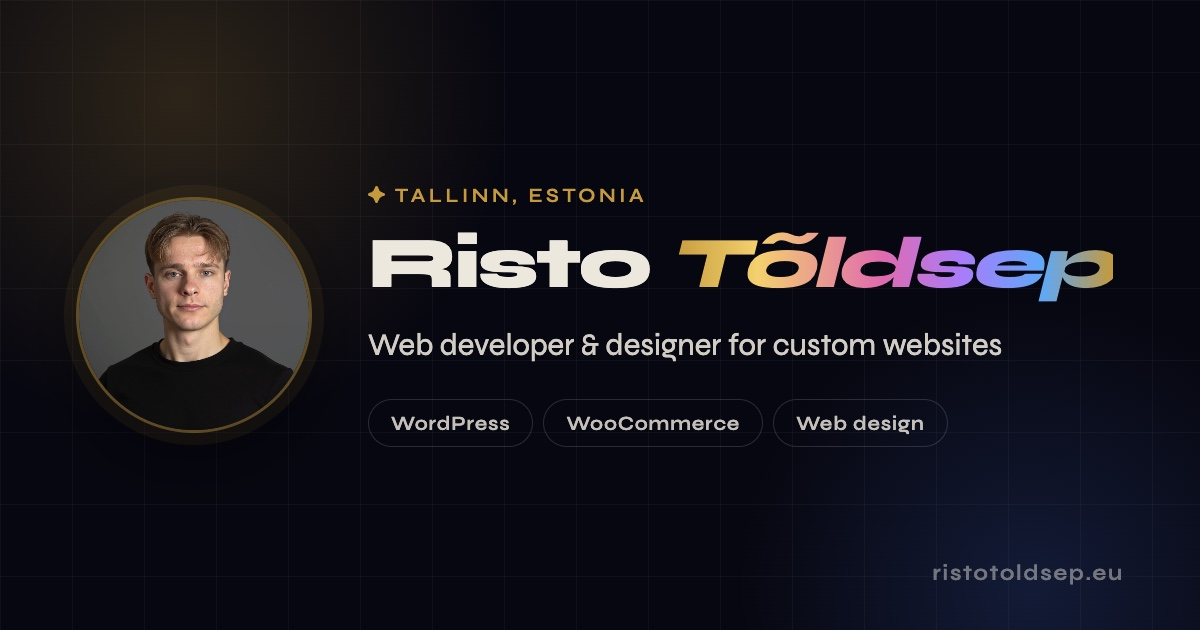
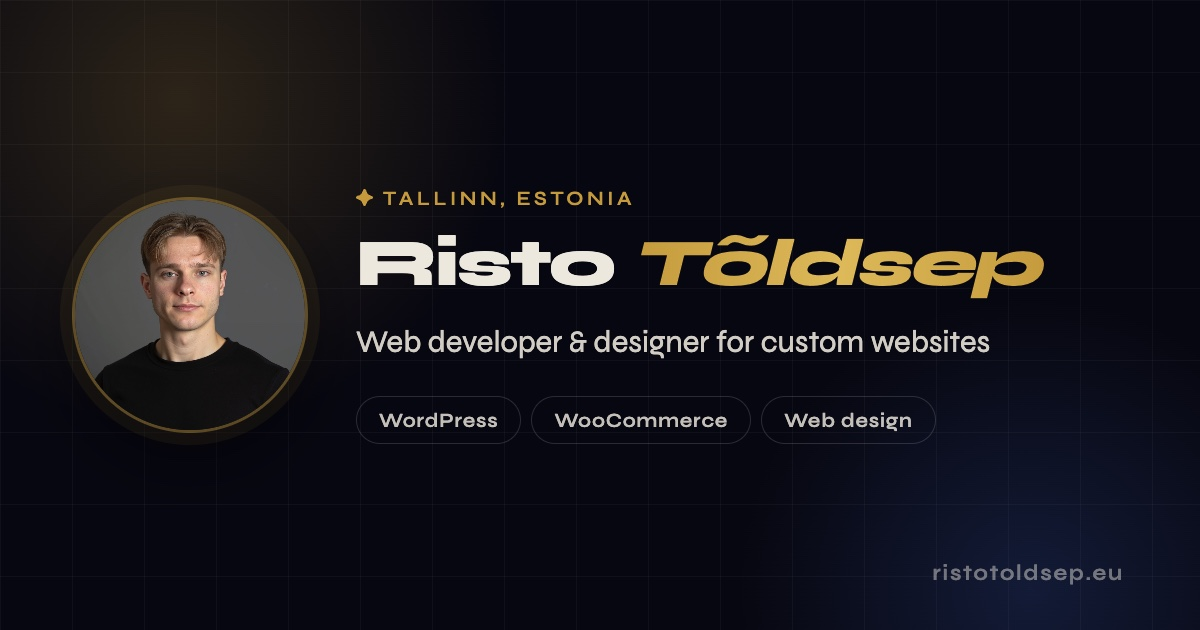
Use the gold accent on the OG card and stop clipping the final glyph
The multi-hue gradient is replaced with the site's own gold tokens
(#C49A3C to #DDB95A).

The clipped p was not the image edge, which had 161px clear. Syne's
italic overhangs its inline box, so the h1 was scrolling 2px and cutting
the glyph tip. Fixed with padding-right on the em rather than by nudging
the layout, so it holds if the name or size changes. Verified
scrollWidth equals clientWidth.

Headline drops to 66px for a little more breathing room.

diff --git a/tools/og-card.html b/tools/og-card.html
@@ -38,8 +38,8 @@
 
   .inner {
     position:relative; z-index:2;
-    display:flex; align-items:center; gap:56px;
-    padding:0 76px; width:100%;
+    display:flex; align-items:center; gap:48px;
+    padding:0 72px; width:100%;
   }
 
   .photo {
@@ -61,16 +61,20 @@
   .eyebrow svg { flex-shrink:0; }
 
   h1 {
-    font-size:72px; font-weight:800;
+    overflow:visible;
+    font-size:66px; font-weight:800;
     line-height:1.04; letter-spacing:-0.035em;
     margin-bottom:22px;
   }
   h1 em {
     font-style:italic;
-    background:linear-gradient(90deg,#C49A3C 0%,#f4d06e 20%,#e06aaf 48%,#a87cfa 66%,#5fa8f8 84%,#C49A3C 100%);
+    background:linear-gradient(90deg,#C49A3C 0%,#DDB95A 50%,#C49A3C 100%);
     -webkit-background-clip:text;
     -webkit-text-fill-color:transparent;
     background-clip:text;
+    /* Italic Syne overhangs its box on the right, so the final glyph needs
+       room or background-clip crops the descender. */
+    padding-right:0.16em;
   }
 
   .sub {
